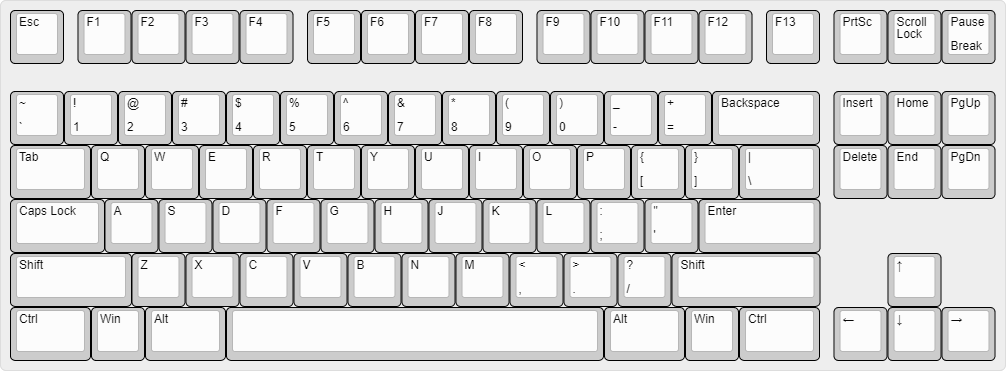
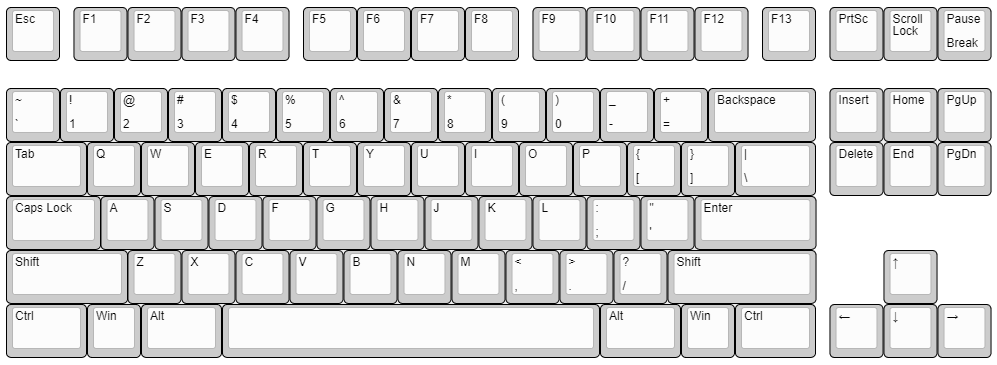
started freebird page

Changed region(s): [[0.0, 0.0, 1.0, 1.0]]

diff --git a/freebird.html b/freebird.html
@@ -150,12 +150,12 @@
       </ul>
       <figure>
         <img
-          src="imgs/keyboards/freebird/freebird_layout.png"
+          src="imgs/keyboards/freebird/freebird_layout_tsangan.png"
           alt="A picture of the layout of the Freebird TKL"
           class="center__image"
         />
         <figcaption class="caption">
-          <i> The layout of the Freebird TKL (F13) </i>
+          <i> The layout of the Freebird TKL (Tsangan F13) </i>
         </figcaption>
       </figure>
 
@@ -173,11 +173,17 @@
       <!-- Build specs -->
       <h2 style="margin-top: 60px">Build Specification</h2>
       <ul>
-        <li><strong>Keycaps: </strong>21KB Blue Cadet</li>
-        <li><strong>Switches: </strong>Thic Thock Marshmallows</li>
+        <li><strong>Keycaps: </strong>OTC Modo Light</li>
+        <li>
+          <strong>Switches: </strong>JWICK Semi-Silents w/ 58g Dual Stage
+          Springs
+        </li>
         <li><strong>Plate: </strong>POM plate</li>
         <li><strong>Stabilizers: </strong>TX stabilizers</li>
-        <li><strong>Foam(s): </strong>Insert foams used here</li>
+        <li>
+          <strong>Foam(s): </strong>Plate foam, case foam (from StupidFish
+          Designs)
+        </li>
       </ul>
       <p>
         Lorem ipsum dolor sit amet, consectetur adipiscing elit, sed do eiusmod
